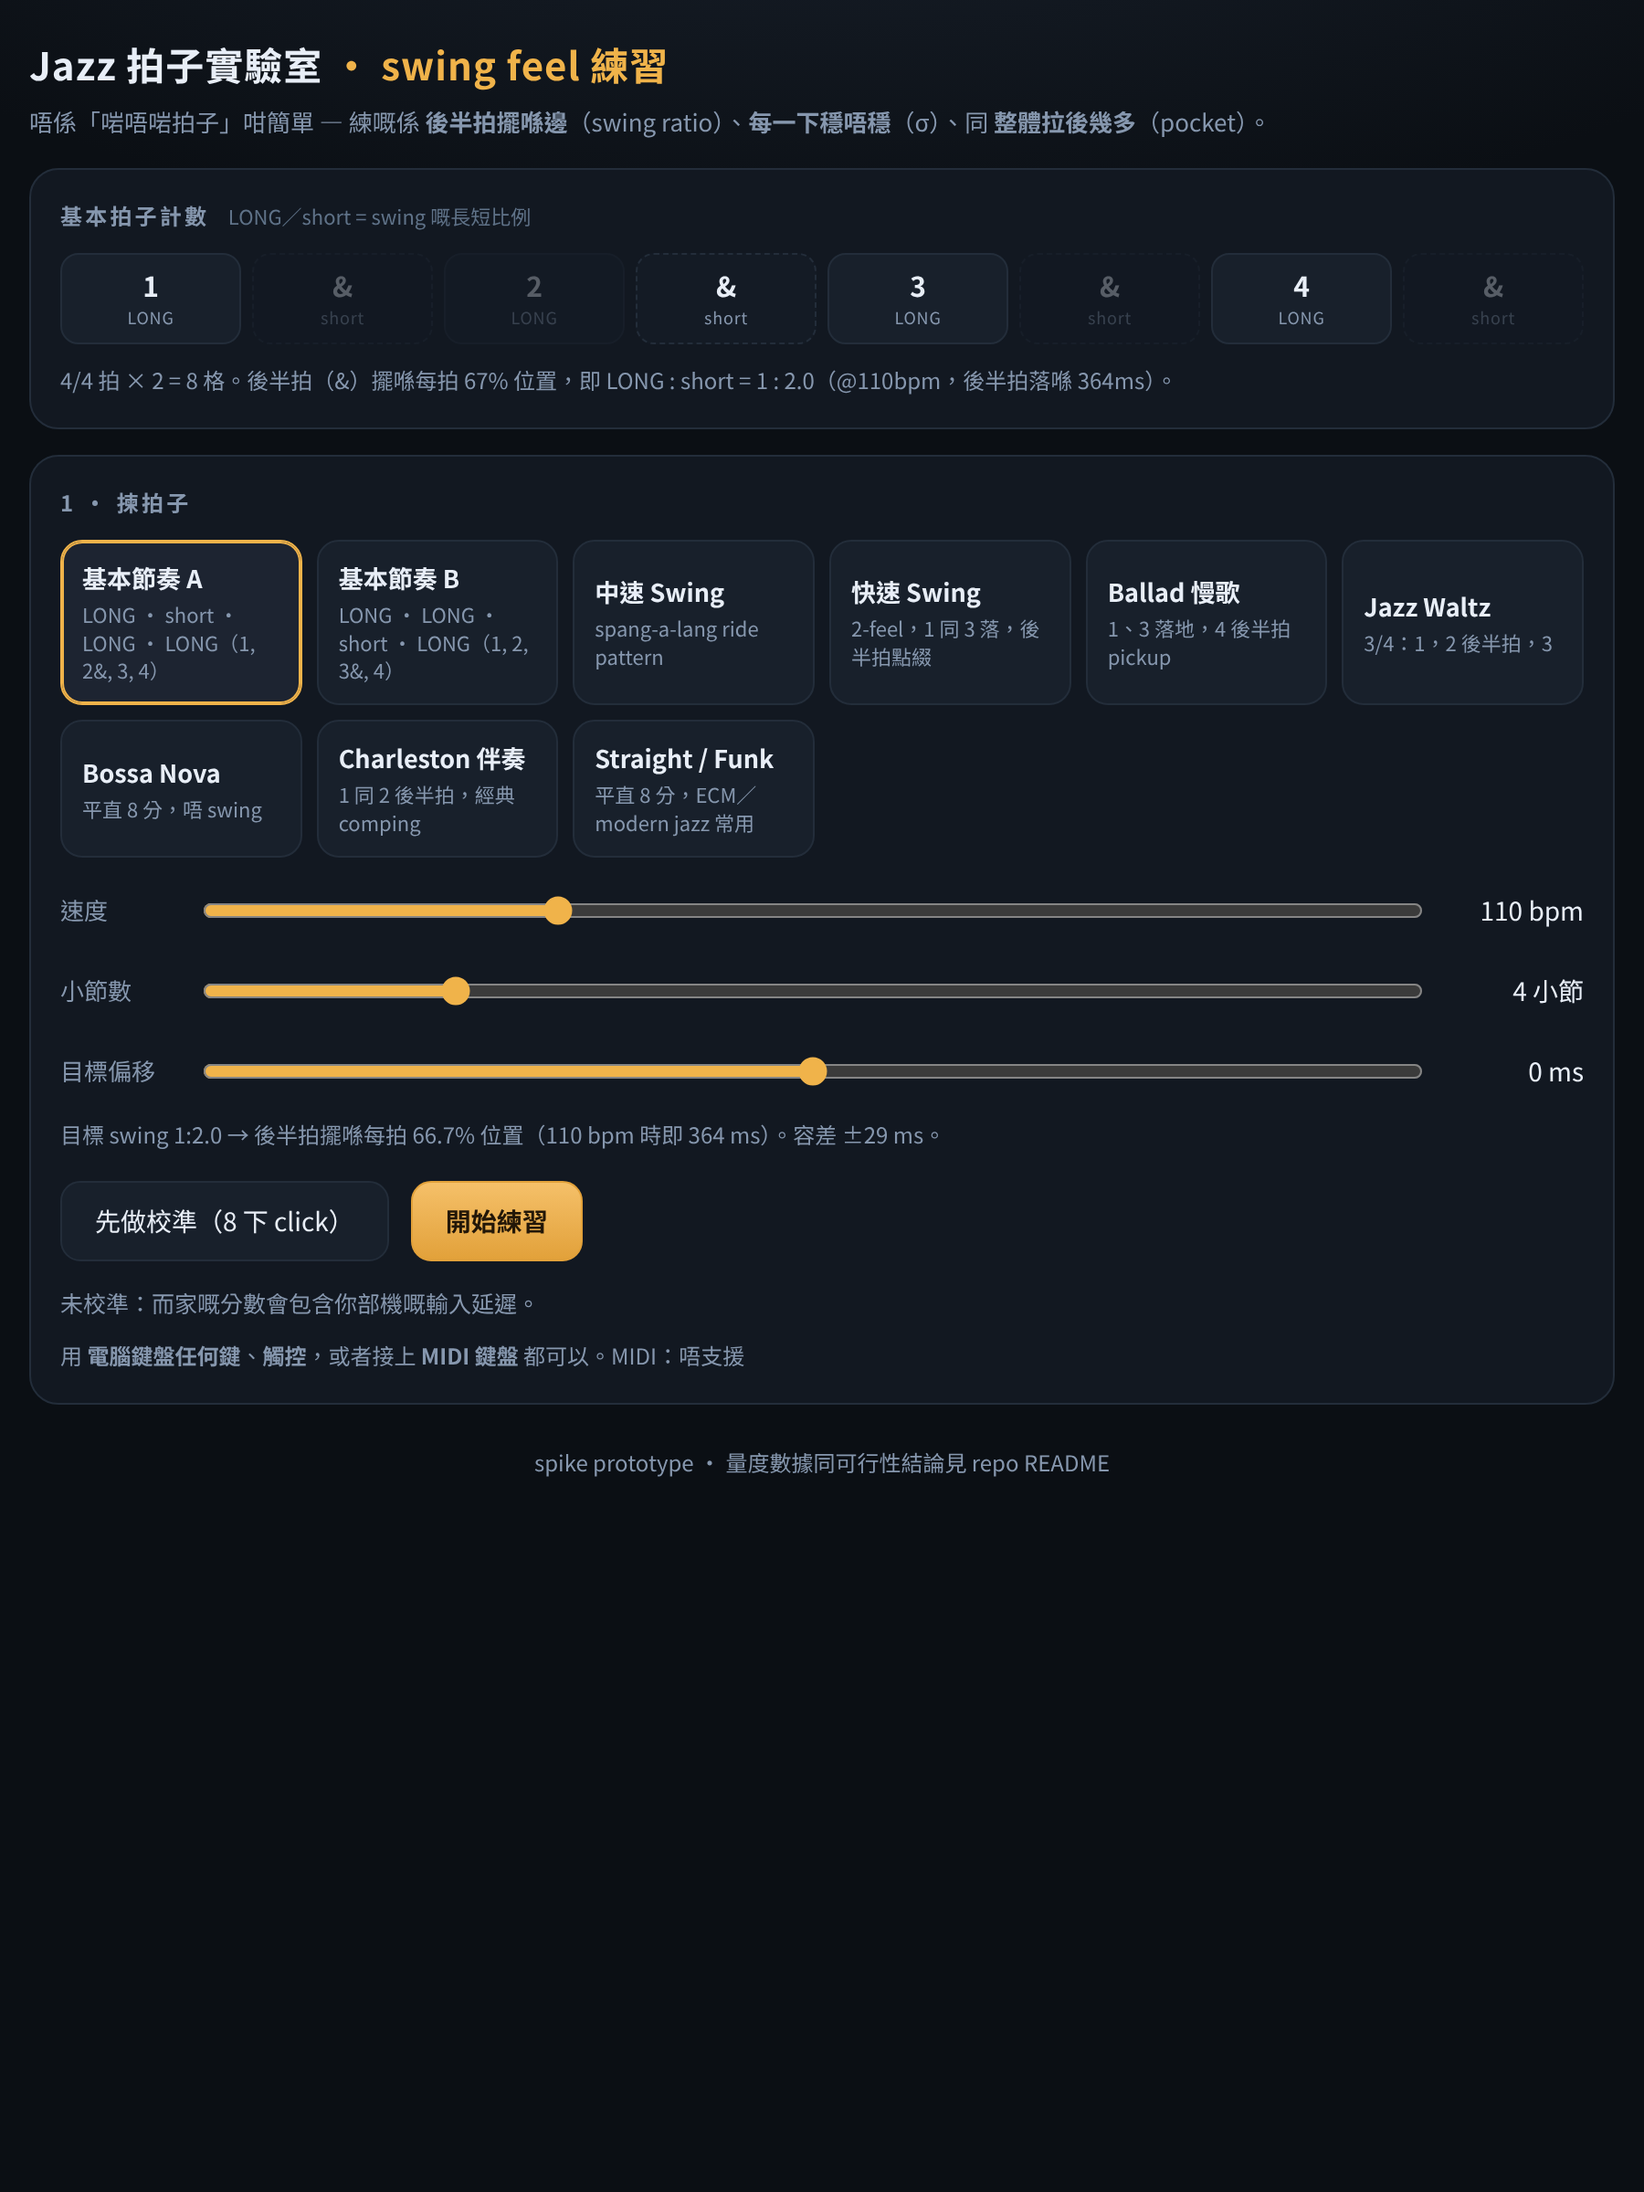
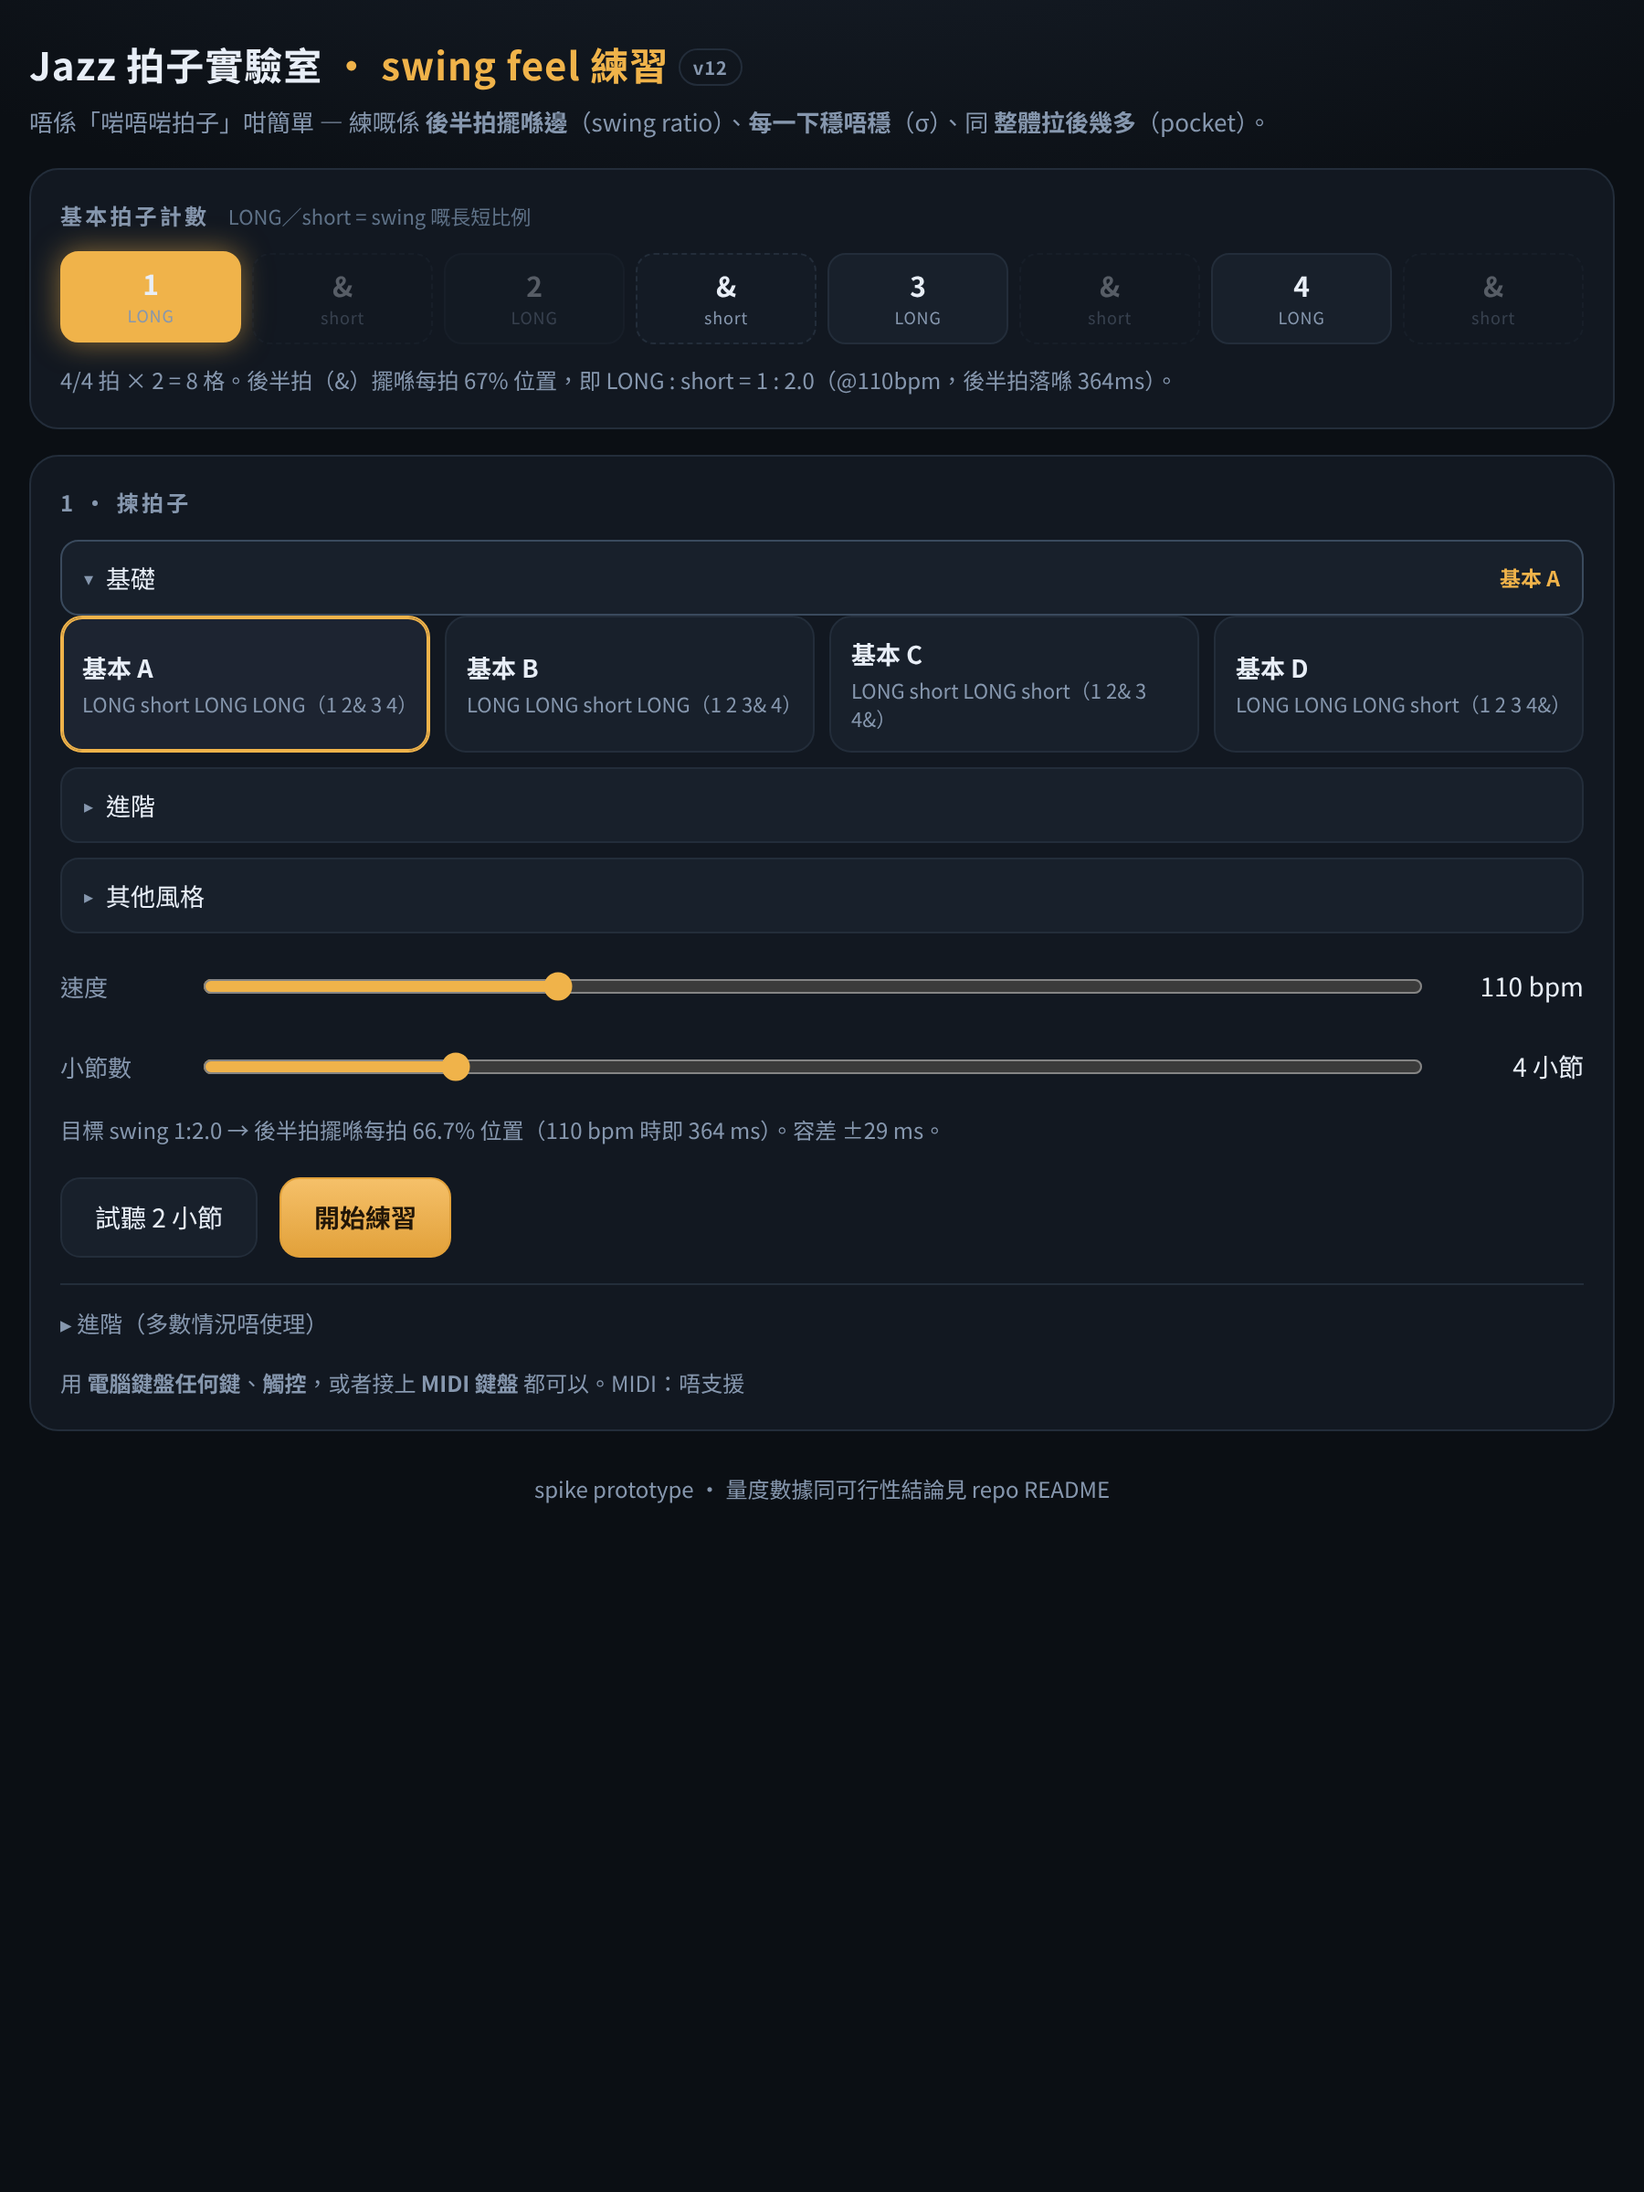
v12: 分組預設收起（撳 header 展開）+ 揀 pattern 自動示範 2 小節

diff --git a/app.js b/app.js
@@ -16,6 +16,7 @@ const S = {
   bars: 4,
   targetOffset: 0,
   subdiv: false,
+  openGroups: new Set(),
   calibMs: 0,
   calibrated: false,
   ctx: null,
@@ -525,7 +526,7 @@ function finish() {
 
   const c = ensureCtx();
   $("clockInfo").textContent =
-    `v11 · 時鐘 ${clockPath} · 輸出延遲 ${Math.round((c.outputLatency || 0) * 1000)}ms · 緩衝 ${Math.round((c.baseLatency || 0) * 1000)}ms · ${c.sampleRate}Hz · 校準 ${S.calibMs}ms`;
+    `v12 · 時鐘 ${clockPath} · 輸出延遲 ${Math.round((c.outputLatency || 0) * 1000)}ms · 緩衝 ${Math.round((c.baseLatency || 0) * 1000)}ms · ${c.sampleRate}Hz · 校準 ${S.calibMs}ms`;
 
   S.hist.push({ t: Date.now(), feel: s.feel.id, bpm: s.bpm, total: r.total, grade: r.grade, pocket: r.pocketMs, sigma: r.sigmaMs, ratio: r.swingRatio });
   S.hist = S.hist.slice(-12);
@@ -554,32 +555,48 @@ function renderHist() {
 function renderFeels() {
   const el = $("feels");
   el.innerHTML = "";
-  let grid = null, group = null;
-  for (const f of FEELS) {
-    if (f.group !== group) {
-      group = f.group;
-      const h = document.createElement("div");
-      h.className = "gname";
-      h.textContent = group;
-      el.appendChild(h);
-      grid = document.createElement("div");
-      grid.className = "feelgrid";
-      el.appendChild(grid);
-    }
-    const b = document.createElement("button");
-    b.className = "feel" + (f.id === S.feelId ? " on" : "");
-    b.innerHTML = `<b>${f.name}</b><small>${f.sub}</small>`;
-    b.onclick = () => {
-      // 揀 style 唔再自動示範（要聽就撳「試聽 2 小節」）
-      S.feelId = f.id;
-      S.bpm = f.bpm;
-      $("bpm").value = f.bpm;
-      $("bpmVal").textContent = `${f.bpm} bpm`;
+  const groups = [];
+  for (const f of FEELS) if (!groups.includes(f.group)) groups.push(f.group);
+  const cur = FEELS.find((f) => f.id === S.feelId);
+
+  for (const g of groups) {
+    const open = S.openGroups.has(g);
+    const wrap = document.createElement("div");
+    wrap.className = "fgroup" + (open ? " open" : "");
+
+    const head = document.createElement("button");
+    head.className = "ghead";
+    head.innerHTML = `<span class="caret">${open ? "▾" : "▸"}</span>${g}` +
+      (cur && cur.group === g ? `<span class="cur">${cur.name}</span>` : "");
+    head.onclick = () => {
+      if (S.openGroups.has(g)) S.openGroups.delete(g); else S.openGroups.add(g);
       renderFeels();
-      renderHint();
-      renderCounts(f);
     };
-    grid.appendChild(b);
+    wrap.appendChild(head);
+
+    if (open) {
+      const grid = document.createElement("div");
+      grid.className = "feelgrid";
+      for (const f of FEELS.filter((x) => x.group === g)) {
+        const b = document.createElement("button");
+        b.className = "feel" + (f.id === S.feelId ? " on" : "");
+        b.innerHTML = `<b>${f.name}</b><small>${f.sub}</small>`;
+        b.onclick = () => {
+          S.feelId = f.id;
+          S.bpm = f.bpm;
+          $("bpm").value = f.bpm;
+          $("bpmVal").textContent = `${f.bpm} bpm`;
+          S.openGroups.add(g);
+          renderFeels();
+          renderHint();
+          renderCounts(f);
+          previewFeel(f); // 揀 pattern 即示範 2 小節
+        };
+        grid.appendChild(b);
+      }
+      wrap.appendChild(grid);
+    }
+    el.appendChild(wrap);
   }
 }
 

diff --git a/index.html b/index.html
@@ -33,8 +33,11 @@
 
   /* felt chips */
   .feels{display:block}
-  .feels .gname{font-size:11px;letter-spacing:.14em;color:var(--muted);text-transform:uppercase;margin:12px 0 6px}
-  .feels .gname:first-child{margin-top:0}
+  .ghead{display:flex;align-items:center;gap:7px;width:100%;text-align:left;background:var(--panel2);border:1px solid var(--line);border-radius:10px;padding:10px 12px;margin-top:8px;color:var(--ink);font:inherit;font-size:13.5px;cursor:pointer}
+  .fgroup:first-child .ghead{margin-top:0}
+  .ghead .caret{color:var(--muted);font-size:10px}
+  .ghead .cur{margin-left:auto;color:var(--accent);font-size:11.5px;font-weight:600}
+  .fgroup.open .ghead{border-color:#3a4a5d}
   .feelgrid{display:grid;grid-template-columns:repeat(auto-fit,minmax(124px,1fr));gap:8px}
   .feel{
     background:var(--panel2);border:1px solid var(--line);border-radius:12px;padding:10px 11px;
@@ -148,7 +151,7 @@
 <body>
 <div class="wrap">
   <header>
-    <h1>Jazz 拍子實驗室 <span>· swing feel 練習</span> <span class="ver" id="verTag">v11</span></h1>
+    <h1>Jazz 拍子實驗室 <span>· swing feel 練習</span> <span class="ver" id="verTag">v12</span></h1>
     <p>唔係「啱唔啱拍子」咁簡單 — 練嘅係 <b>後半拍擺喺邊</b>（swing ratio）、<b>每一下穩唔穩</b>（σ）、同 <b>整體拉後幾多</b>（pocket）。</p>
   </header>
 

diff --git a/README.md b/README.md
@@ -255,3 +255,10 @@ node spikes/003-prototype/shots.mjs           # 影截圖去 shots/
 | **細分 tick** | pattern 只打幾格，中間冇聲就會失去格位 | 練新 pattern 初期 | 練熟之後（會依賴參考聲） |
 
 UI 上收埋入 `<details class="adv">「進階（多數情況唔使理）」`，主畫面只剩：揀 pattern → 速度 → 小節數 → 試聽／開始。每個選項下面加一句「幾時用」。
+
+## 16. 第九次回饋：分組摺疊 + 揀 pattern 自動示範
+
+- 三個 group（基礎／進階／其他風格）預設**全部收起**，撳 group header 才展開；header 右邊會顯示該組現時揀緊邊個 pattern（例如「基礎 · 基本 A」），所以收起都知自己喺邊。
+- **揀 chip 會自動示範 2 小節**（連亮燈），同之前一樣；`試聽 2 小節` 掣保留，方便重聽同一個。
+- `renderFeels()` 用 `S.openGroups`（Set）記住邊組開住，重繪完唔會彈返去收起。
+- 測試加咗：開機時 3 個 header、0 個 chip（全收起）、撳「基礎」後有 4 個 chip 且第一個係基本 A；揀 chip 之後即刻排 12 盞燈（中速 Swing 2 bars × 6）。
